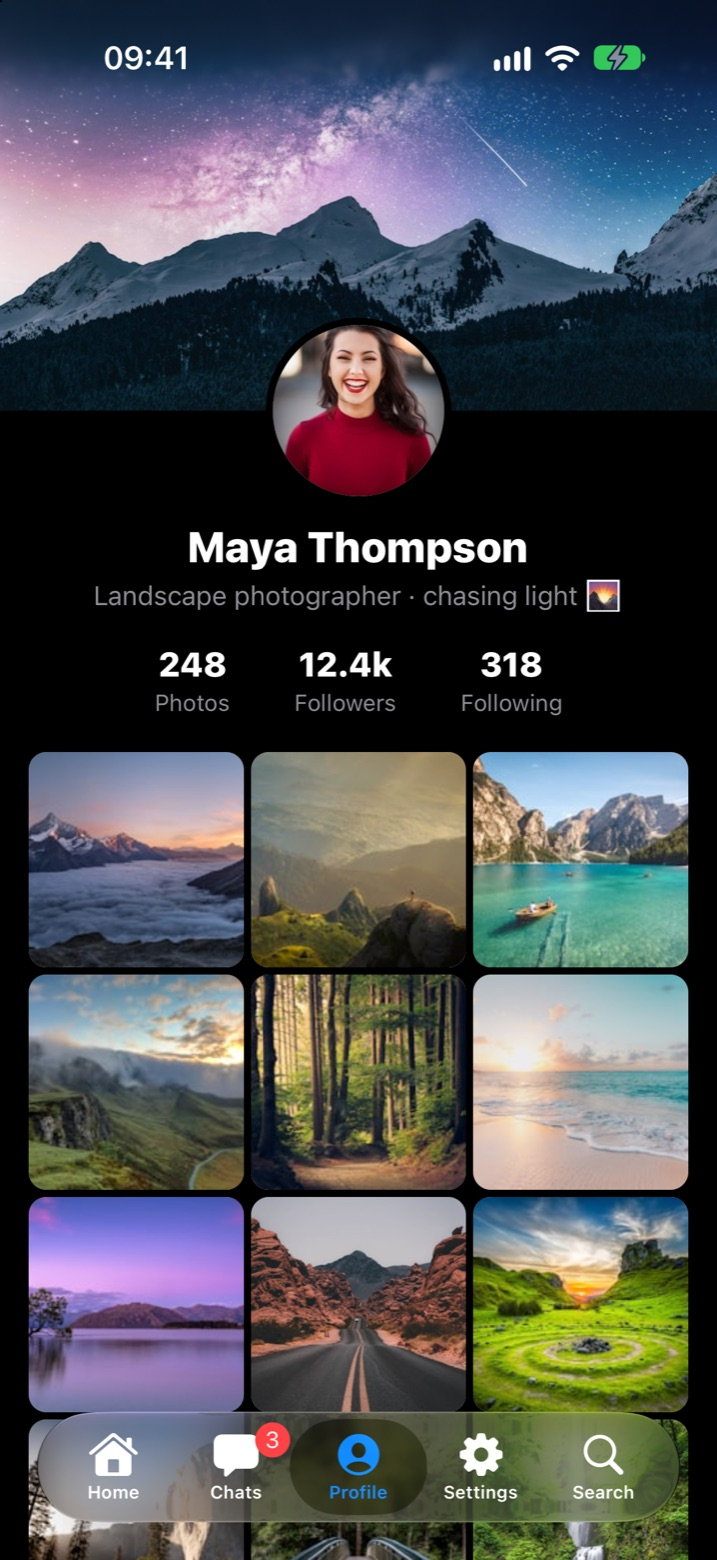
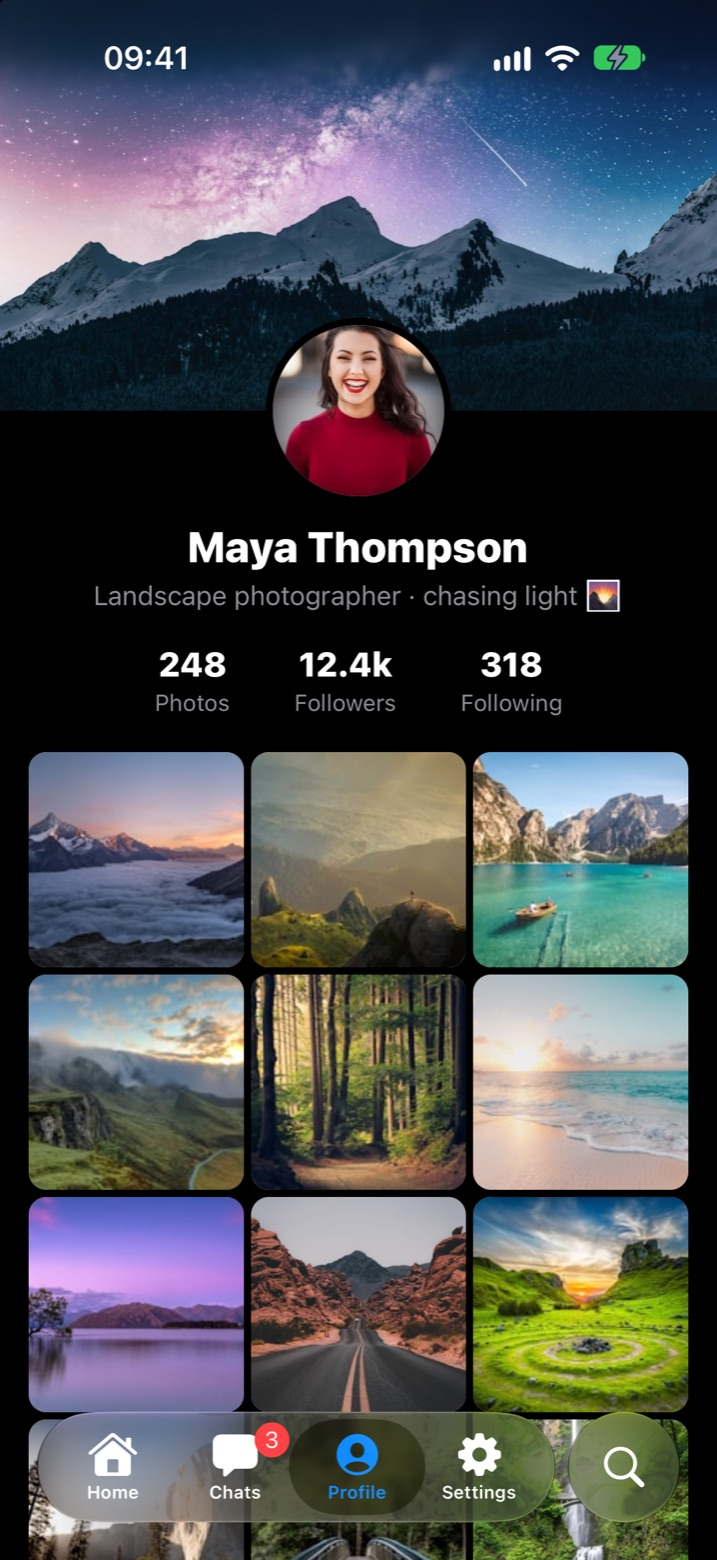
Set the search tab apart on iOS 27 in the example and refresh the iOS screenshots

diff --git a/example/App.tsx b/example/App.tsx
@@ -1,5 +1,5 @@
 import React, { useState, useCallback } from 'react';
-import { StatusBar, useColorScheme } from 'react-native';
+import { Platform, StatusBar, useColorScheme } from 'react-native';
 import {
   NavigationContainer,
   DarkTheme,
@@ -18,6 +18,12 @@ import {
   DEFAULT_CONFIG,
 } from './src/screens';
 import type { AppConfig } from './src/screens';
+
+/** iOS 27 sets a tab apart as a round button with the `prominent` role; iOS 26 did it for `search`. */
+const SEARCH_ROLE =
+  Platform.OS === 'ios' && parseInt(String(Platform.Version), 10) >= 27
+    ? 'prominent'
+    : 'search';
 
 const App = () => {
   const colorScheme = useColorScheme();
@@ -77,7 +83,7 @@ const App = () => {
               name: 'Search',
               component: SearchScreen,
               title: 'Search',
-              role: 'search',
+              role: SEARCH_ROLE,
               header: { title: 'Search' },
               renderIcon: {
                 sfSymbol: 'magnifyingglass',

diff --git a/README.md b/README.md
@@ -14,7 +14,7 @@
 ### iOS — Liquid Glass (iOS 26+)
 
 <p float="left">
-  <img src="images/ios-search.jpg" width="220" alt="iOS - Search grid under the liquid glass tab bar" />
+  <img src="images/ios-search.jpg" width="220" alt="iOS - Search grid, with search as its own round glass button" />
   <img src="images/ios-chats.jpg" width="220" alt="iOS - Chats with a tab badge" />
   <img src="images/ios-profile-dark.jpg" width="220" alt="iOS - Profile in dark mode" />
   <img src="images/ios-settings.jpg" width="220" alt="iOS - Settings" />
@@ -47,7 +47,7 @@ Example app photos are loaded at runtime from [Unsplash](https://unsplash.com/li
 
 ## Features
 
-- **iOS 26+**: Native liquid glass with SF Symbols and search role via SwiftUI TabView
+- **iOS 26+**: Native liquid glass with SF Symbols, plus a search tab set apart as a round button (`role: 'search'` on iOS 26, `role: 'prominent'` on iOS 27+) via SwiftUI TabView
 - **iOS 18 and below**: Standard native UITabBarController
 - **Android 13+ (API 33+)**: GPU-blurred frosted glass floating pill (Telegram-style)
 - **Liquid glass** option (Android 13+): iOS 26-style — edge refraction, light rim, clear centre (`glassEffect="liquid"`)
@@ -247,7 +247,7 @@ const createNativeIcon = (filled: string, outline: string) => {
 | `component` | `ComponentType` | Screen component |
 | `title` | `string` | Tab label |
 | `renderIcon` | `(props) => ReactNode \| PlatformIcons` | Simple render function or platform-specific object with `sfSymbol` (iOS 26+), `nativeIcon` (Android Material 3), and `render` (JS fallback) |
-| `role` | `'search'?` | iOS liquid glass search tab role |
+| `role` | `'search' \| 'prominent'` | iOS liquid glass tab role. `'search'`: the search tab, set apart as a round button on iOS 26 (inside the bar on iOS 27). `'prominent'`: set apart as a round button on iOS 27+ (react-native-bottom-tabs 1.5+), ignored before |
 | `badge` | `number \| string?` | Badge value |
 | `header` | `false \| HeaderConfig?` | Header configuration. `undefined` → default header, `false` → no header, `HeaderConfig` → custom header |
 | `accessibilityLabel` | `string?` | Accessibility label for the tab button (screen readers) |
@@ -457,7 +457,7 @@ On Android, text and icons inside **adapt by themselves, natively**: over dark c
 ## How it works
 
 ### iOS 26+ (Liquid Glass)
-Uses `@bottom-tabs/react-navigation` which wraps SwiftUI's `TabView` with native liquid glass effects. SF Symbols are rendered natively. Each tab is wrapped in a `@react-navigation/native-stack` with transparent headers and native blur. The `search` role activates the native iOS search tab appearance.
+Uses `@bottom-tabs/react-navigation` which wraps SwiftUI's `TabView` with native liquid glass effects. SF Symbols are rendered natively. Each tab is wrapped in a `@react-navigation/native-stack` with transparent headers and native blur. The `search` role activates the native iOS search tab appearance (a separate round button on iOS 26); on iOS 27 that look comes from the `prominent` role.
 
 ### iOS 18 and below
 Uses `@react-navigation/bottom-tabs` with standard `UITabBarController` styling. Your `render` function is used for all icons. Headers use the built-in bottom-tabs header system. Dark mode adapts tab bar background, borders, and header text colors automatically.
